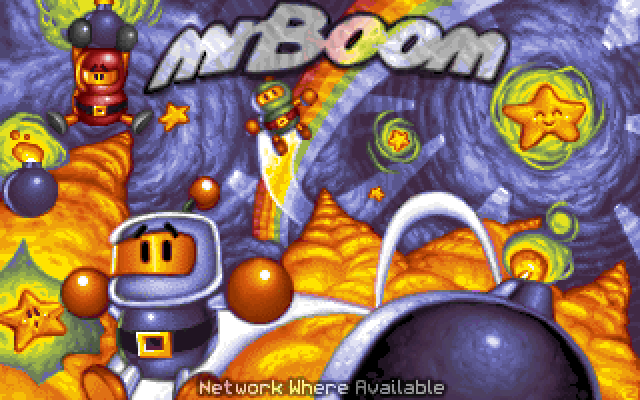
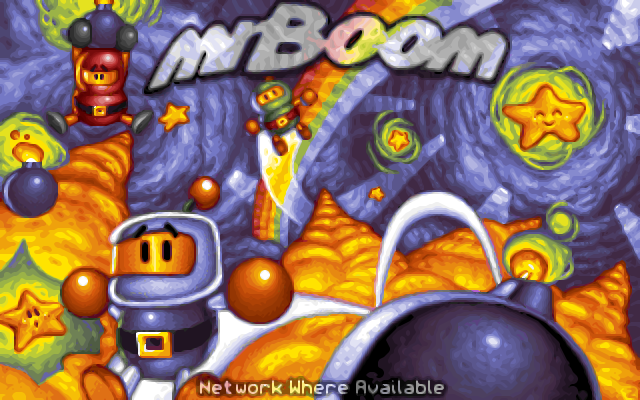
Add splash screen

diff --git a/UWP/SplashScreen.cs b/UWP/SplashScreen.cs
@@ -1,0 +1,37 @@
+using System.Collections.Generic;
+using Microsoft.Xna.Framework.Graphics;
+
+namespace MrBoom
+{
+    internal class SplashScreen : IScreen
+    {
+        public Screen Next => Screen.None;
+
+        private int tick = 0;
+
+        private readonly Assets assets;
+        private readonly List<Player> players;
+        private readonly List<IController> controllers;
+
+        public SplashScreen(Assets assets, List<Player> players, List<IController> controllers)
+        {
+            this.assets = assets;
+            this.players = players;
+            this.controllers = controllers;
+        }
+
+        public void Update()
+        {
+            tick++;
+            if (tick > 300)
+            {
+                ScreenManager.SetScreen(new StartScreen(assets, players, controllers));
+            }
+        }
+
+        public void Draw(SpriteBatch ctx)
+        {
+            assets.Splash.Draw(ctx, 0, 0);
+        }
+    }
+}

diff --git a/UWP/Assets.cs b/UWP/Assets.cs
@@ -536,7 +536,7 @@ namespace MrBoom
                     loadImage(content.Load<Texture2D>("VIC4"), 0, 0, 320, 200),
                 },
                 Sky = loadImage(imgSprite2, 64, 16, 48, 44),
-                Splash = loadImage(content.Load<Texture2D>("MRFOND"), 0, 0, 320, 200),
+                Splash = loadImage(content.Load<Texture2D>("PIC"), 0, 0, 320, 200),
                 DrawGameIn = loadImage(imgSoucoupe, 96, 48, 78, 36),
                 DrawGameInNumbers = loadImageStripe(imgSoucoupe, 173, 32, 8, 7, 10)
             };

diff --git a/UWP/Game.cs b/UWP/Game.cs
@@ -52,7 +52,7 @@ namespace MrBoom
             Players = new List<Player>();
             NextSong(3);
 
-            ScreenManager.SetScreen(new StartScreen(assets, Players, Controllers));
+            ScreenManager.SetScreen(new SplashScreen(assets, Players, Controllers));
 
             renderTarget = new RenderTarget2D(GraphicsDevice, 640, 400, false,
                 GraphicsDevice.PresentationParameters.BackBufferFormat, DepthFormat.Depth24);
